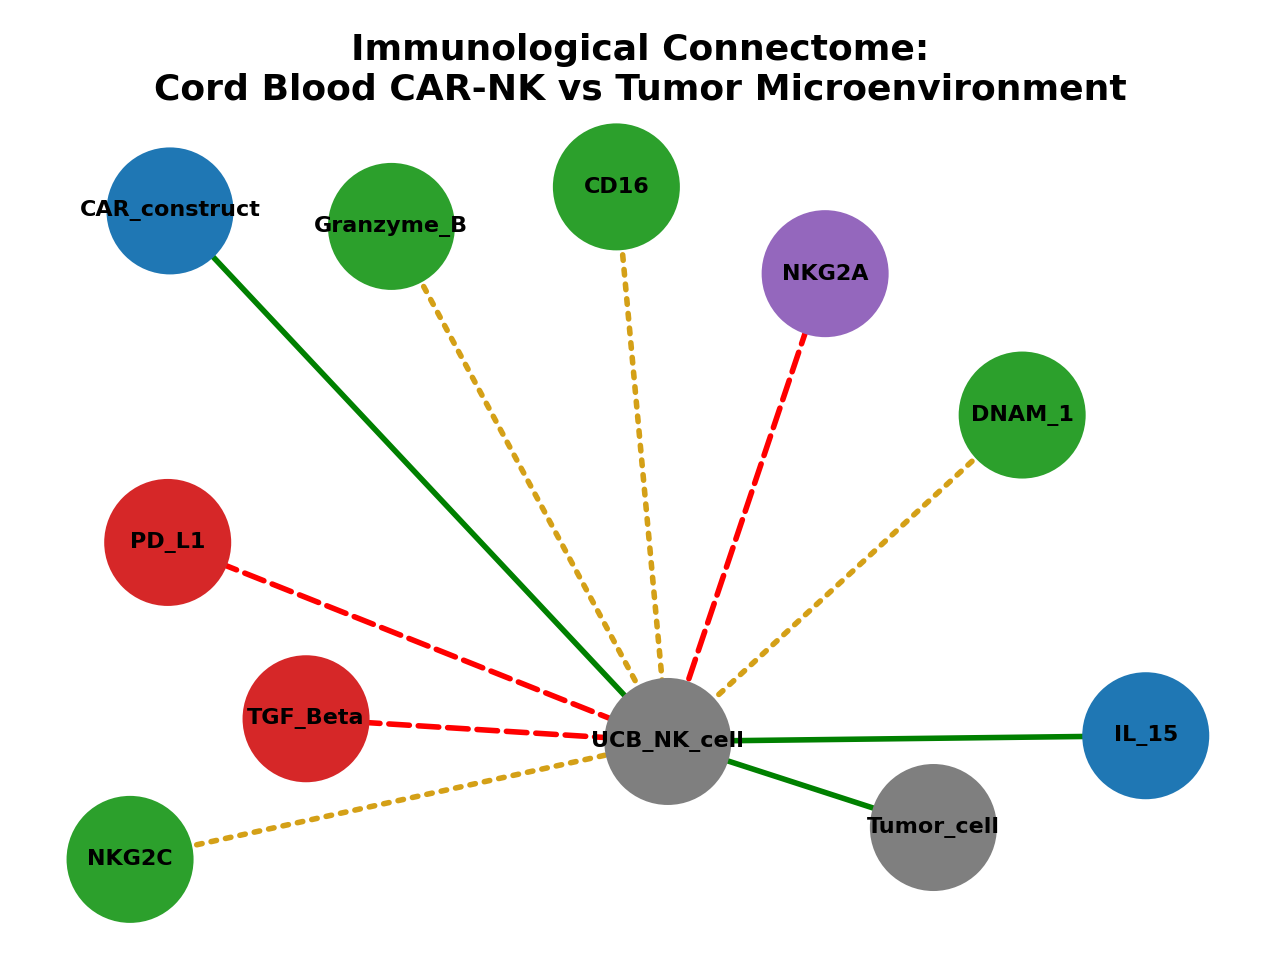
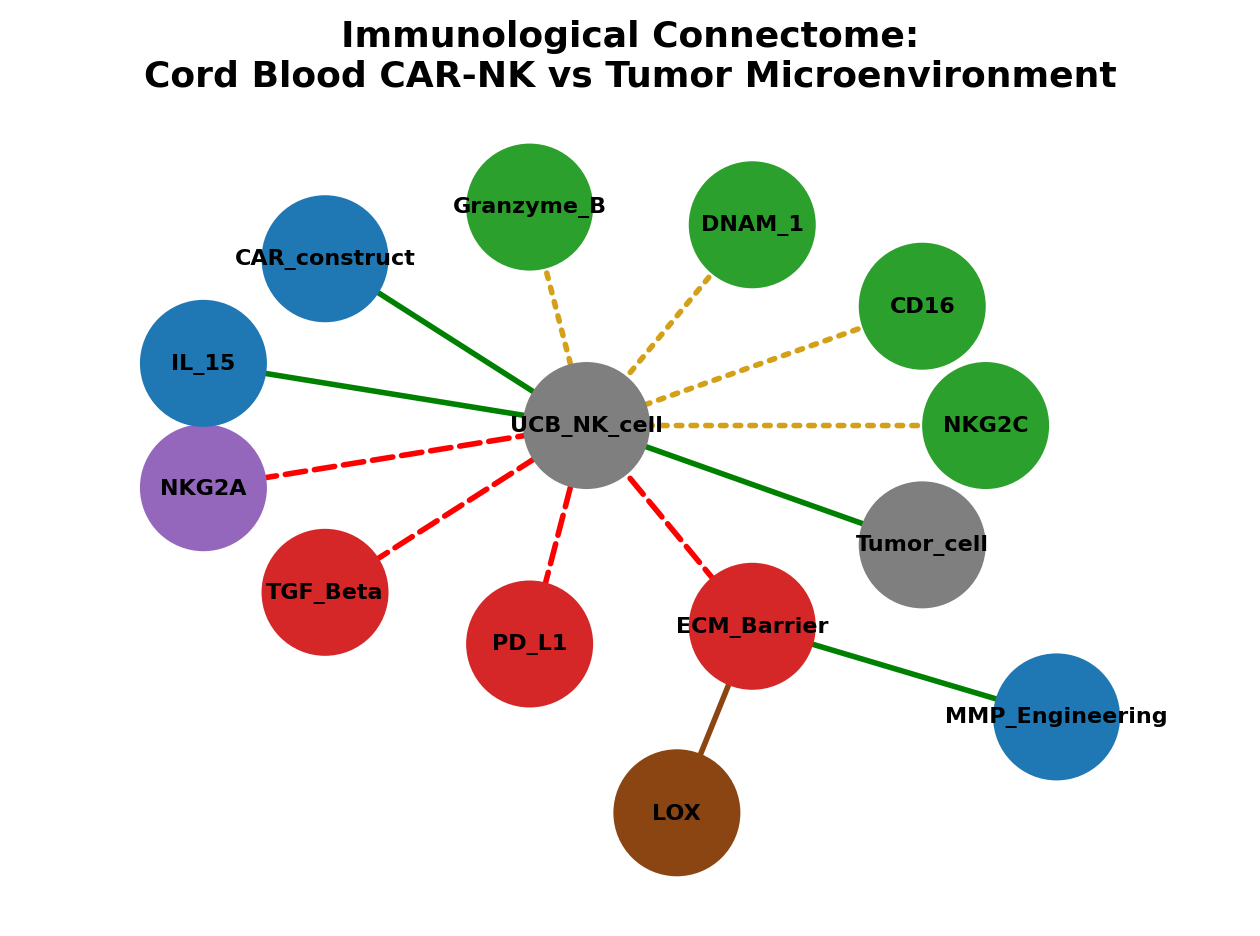
Add files via upload

diff --git a/immune_connectome.py b/immune_connectome.py
@@ -19,12 +19,18 @@ inhibitory_receptors = ['NKG2A']
 engineering = ['CAR_construct', 'IL_15']
 
 # Tumor microenvironment suppressive factors
-tme_factors = ['TGF_Beta', 'PD_L1']
+tme_factors = ['TGF_Beta', 'PD_L1', 'ECM_Barrier']
+
+# Physical barrier components (distinct from biochemical suppression)
+physical_barrier = ['LOX']
+
+# Engineering solution for the physical barrier
+mmp_solution = ['MMP_Engineering']
 
 # Core cell and target
 core = ['UCB_NK_cell', 'Tumor_cell']
 
-all_nodes = activating_receptors + inhibitory_receptors + engineering + tme_factors + core
+all_nodes = activating_receptors + inhibitory_receptors + engineering + mmp_solution + tme_factors + physical_barrier + core
 for node in all_nodes:
     immune_network.add_node(node)
 
@@ -62,13 +68,43 @@ edges_with_evidence = [
 
     ('PD_L1', 'UCB_NK_cell', 'suppresses',
      'Established TME immunosuppression mechanism — PD-L1/checkpoint signaling suppresses immune cell activity in solid tumors'),
+
+    ('LOX', 'ECM_Barrier', 'builds_physical_barrier',
+     'Frontiers in Immunology, 2026, "Research progress on tumor extracellular matrix stiffness and immunosuppression" — LOX-driven collagen cross-linking stiffens the tumor ECM, creating a dense physical barrier'),
+
+    ('ECM_Barrier', 'UCB_NK_cell', 'blocks_infiltration',
+     'Frontiers in Immunology, 2026 (same source) — a dense ECM is the primary physical obstacle to NK cell infiltration; NK cells present near fibrotic tumors show severely restricted invasion depth'),
+
+    ('MMP_Engineering', 'ECM_Barrier', 'degrades_barrier',
+     'Frontiers in Immunology, 2026 (same source) — direct enzymatic cleavage of ECM components (e.g. via MMPs) can rapidly disrupt the physical barrier and enhance immune cell infiltration'),
 ]
 
 for source, target, effect, citation in edges_with_evidence:
     immune_network.add_edge(source, target, effect=effect, citation=citation)
 
 # 4. Draw the network
-pos = nx.spring_layout(immune_network, seed=42)  # seed=42 just keeps the layout consistent each time you run it
+# Manual circular layout: place every node that connects directly to UCB_NK_cell
+# evenly around it, then push LOX and MMP_Engineering (which attach one hop further,
+# via ECM_Barrier) out beyond the main circle at an offset angle. This guarantees
+# no overlapping nodes or edges, unlike a force-directed layout which can vary run to run.
+import math
+
+hub = 'UCB_NK_cell'
+spoke_order = ['NKG2C', 'CD16', 'DNAM_1', 'Granzyme_B', 'CAR_construct', 'IL_15',
+               'NKG2A', 'TGF_Beta', 'PD_L1', 'ECM_Barrier', 'Tumor_cell']
+radius = 1.3
+pos = {hub: (0.0, 0.0)}
+n = len(spoke_order)
+for i, node in enumerate(spoke_order):
+    angle = 2 * math.pi * i / n
+    pos[node] = (radius * math.cos(angle), radius * math.sin(angle))
+
+# ECM_Barrier's satellites: place them further out, offset to either side of its angle
+ecm_index = spoke_order.index('ECM_Barrier')
+ecm_angle = 2 * math.pi * ecm_index / n
+outer_radius = 2.3
+pos['LOX'] = (outer_radius * math.cos(ecm_angle - 0.3), outer_radius * math.sin(ecm_angle - 0.3))
+pos['MMP_Engineering'] = (outer_radius * math.cos(ecm_angle + 0.3), outer_radius * math.sin(ecm_angle + 0.3))
 
 # Color nodes by category for clarity
 node_colors = []
@@ -79,6 +115,10 @@ for node in immune_network.nodes():
         node_colors.append('#9467bd')       # purple = inhibitory
     elif node in tme_factors:
         node_colors.append('#d62728')       # red = tumor suppression
+    elif node in physical_barrier:
+        node_colors.append('#8b4513')       # brown = physical/structural barrier
+    elif node in mmp_solution:
+        node_colors.append('#1f77b4')       # blue = engineered addition (same as other solutions)
     elif node in engineering:
         node_colors.append('#1f77b4')       # blue = engineered addition
     else:
@@ -91,22 +131,26 @@ nx.draw_networkx_labels(immune_network, pos, font_size=8, font_weight='bold')
 # - positive: helps the NK cell act against the tumor
 # - weak_baseline: the receptor is present but naturally under-expressed (not "suppressed", just weak)
 # - suppresses: something is actively working against the NK cell's function
-positive_effects = ['restores_cytotoxicity', 'adds_targeted_recognition', 'attacks']
+positive_effects = ['restores_cytotoxicity', 'adds_targeted_recognition', 'attacks', 'degrades_barrier']
 weak_baseline_effects = ['weak_baseline_activation', 'weak_baseline_cytotoxicity']
-suppress_effects = ['inhibits', 'suppresses']
+suppress_effects = ['inhibits', 'suppresses', 'blocks_infiltration']
+structural_effects = ['builds_physical_barrier']
 
 pos_edges = [(u, v) for u, v, d in immune_network.edges(data=True) if d['effect'] in positive_effects]
 weak_edges = [(u, v) for u, v, d in immune_network.edges(data=True) if d['effect'] in weak_baseline_effects]
 neg_edges = [(u, v) for u, v, d in immune_network.edges(data=True) if d['effect'] in suppress_effects]
+structural_edges = [(u, v) for u, v, d in immune_network.edges(data=True) if d['effect'] in structural_effects]
 
 nx.draw_networkx_edges(immune_network, pos, edgelist=pos_edges, edge_color='green', width=2, arrowsize=20)
 nx.draw_networkx_edges(immune_network, pos, edgelist=weak_edges, edge_color='#d4a017', style='dotted', width=2, arrowsize=20)  # amber dotted = weak, not suppressed
 nx.draw_networkx_edges(immune_network, pos, edgelist=neg_edges, edge_color='red', style='dashed', width=2, arrowsize=20)      # red dashed = actively suppresses
+nx.draw_networkx_edges(immune_network, pos, edgelist=structural_edges, edge_color='#8b4513', style='solid', width=2, arrowsize=20)  # brown solid = builds structural barrier
 
 plt.title("Immunological Connectome:\nCord Blood CAR-NK vs Tumor Microenvironment", fontsize=13, fontweight='bold')
 plt.axis('off')
+plt.margins(0.15)  # adds breathing room around the outermost nodes so labels never get clipped
 plt.tight_layout()
-plt.savefig('immune_connectome.png', dpi=200)
+plt.savefig('immune_connectome.png', dpi=200, bbox_inches='tight')  # bbox_inches='tight' trims to content while keeping full labels
 plt.show()
 
 # 5. Print out the citation list so it's easy to copy into your references section
